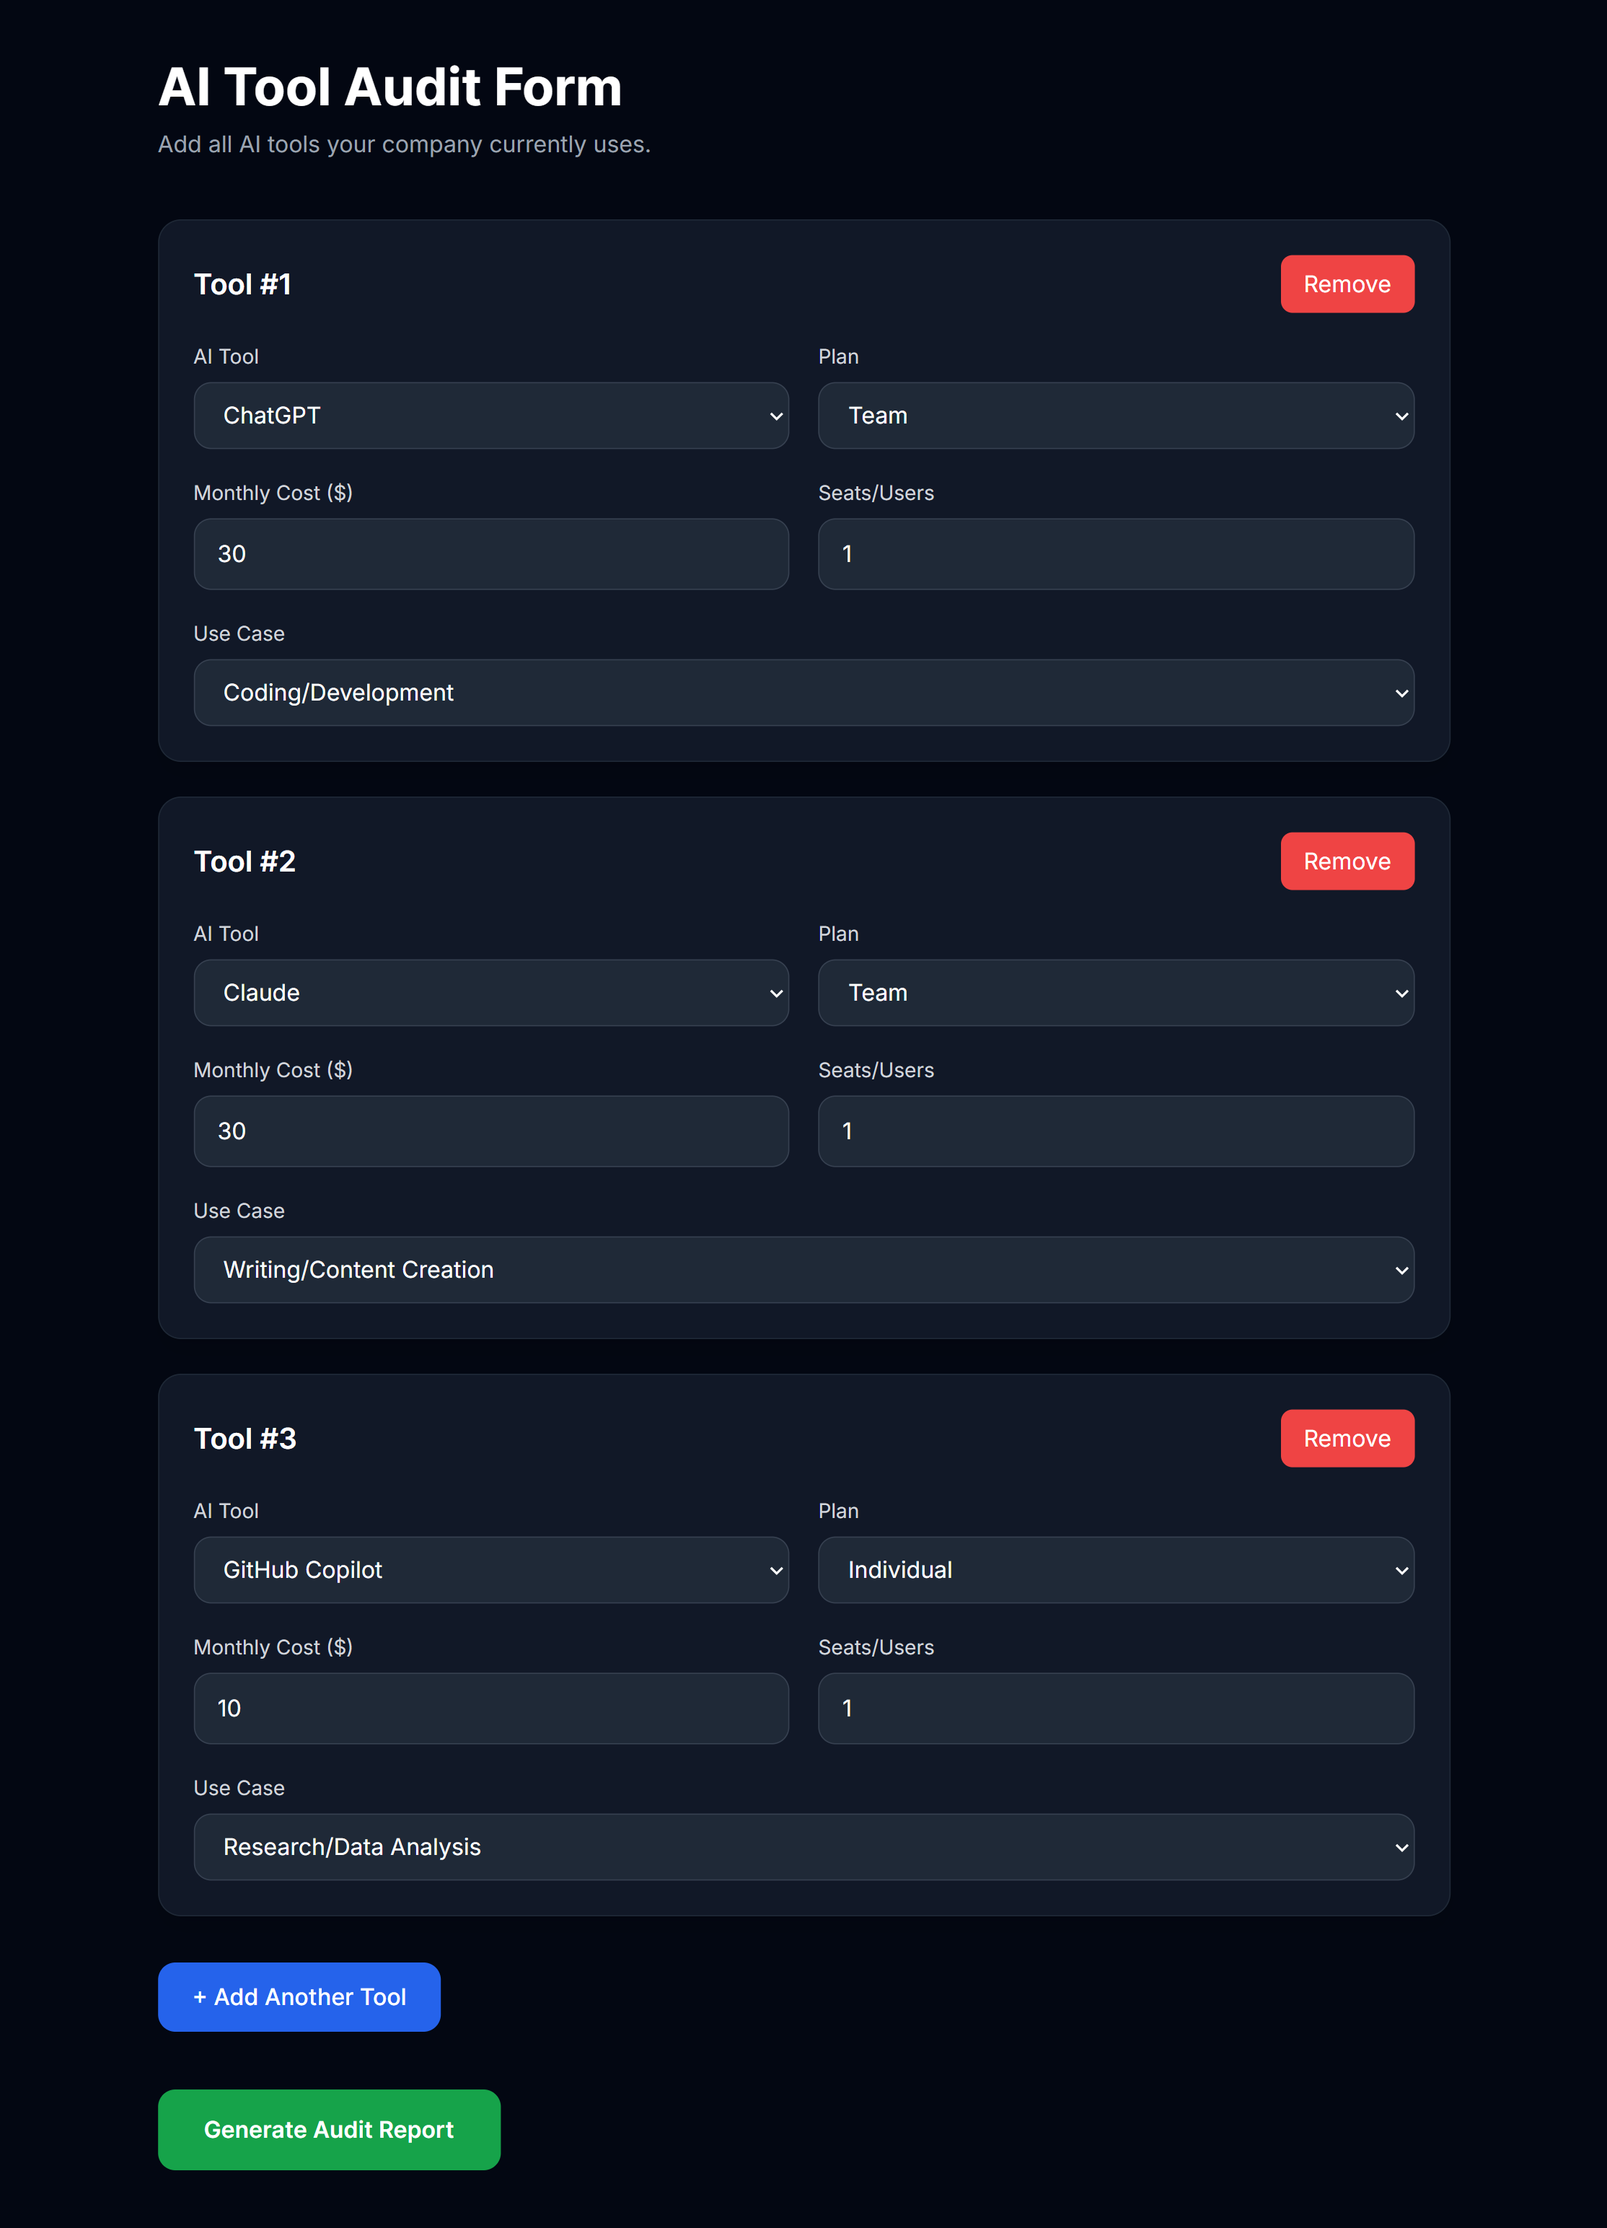
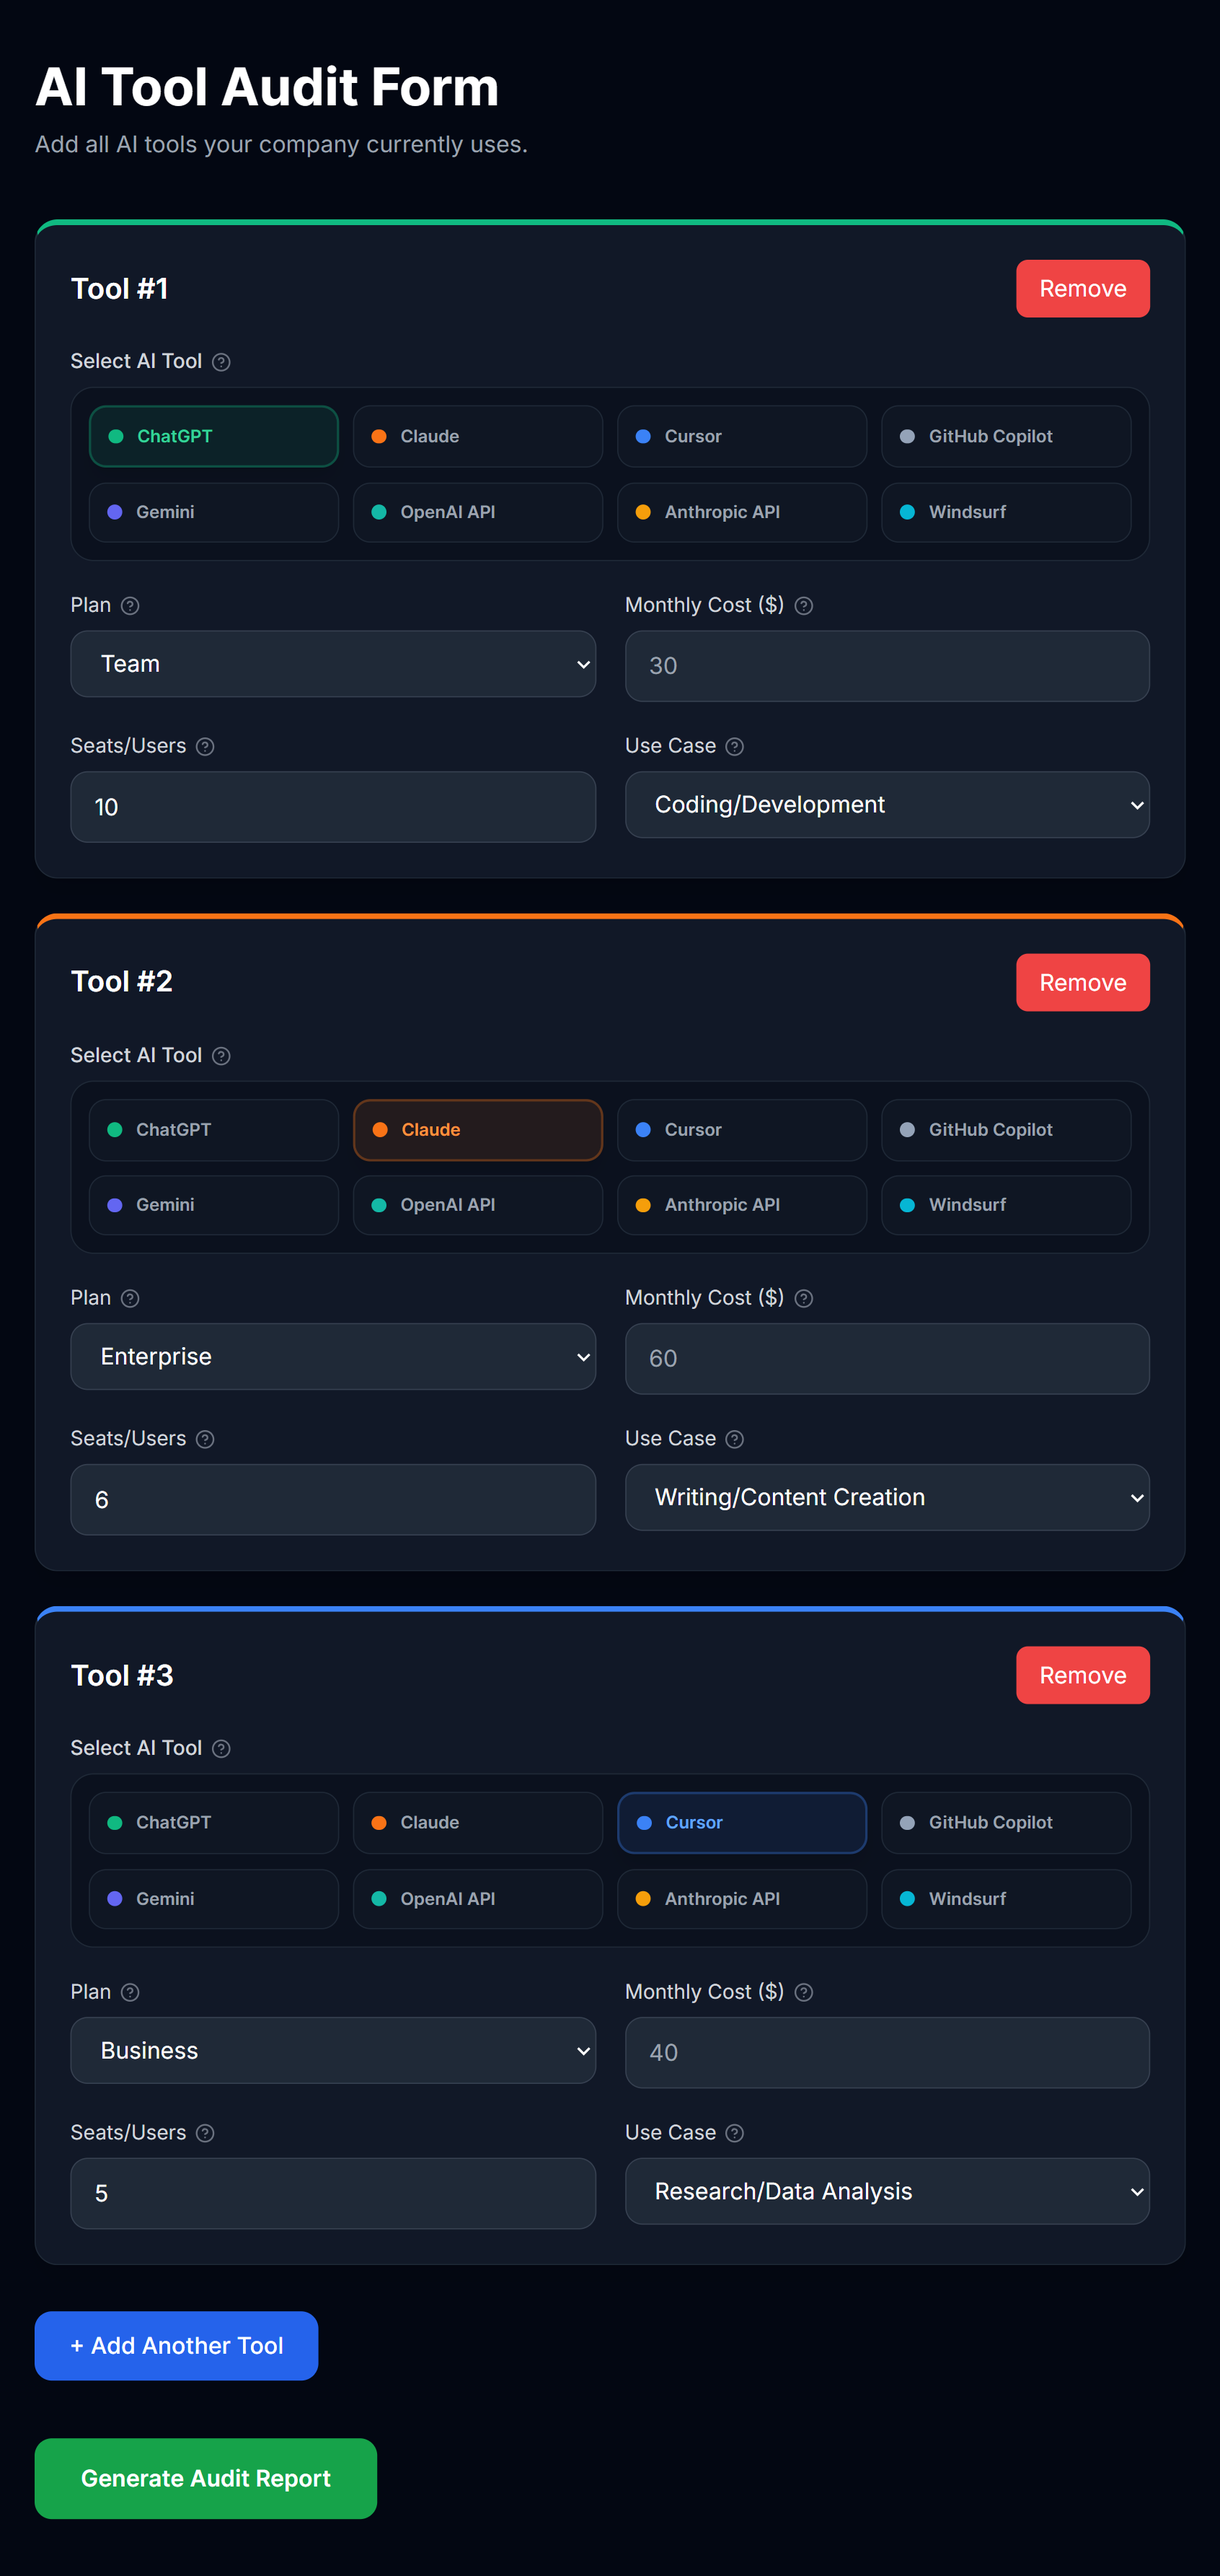
fix: resolve negative chart values by calculating total monthly cost and clean up Recharts outlines and alignment for responsive viewports

diff --git a/server/utils/geminiAuditor.js b/server/utils/geminiAuditor.js
@@ -3,24 +3,29 @@ import { GoogleGenerativeAI } from "@google/generative-ai";
 export const generateFallbackAudit = (tools) => {
   let totalMonthlySavings = 0;
 
-  const auditedTools = tools.map((tool) => {
+  const auditedTools = tools.map((t) => {
+    const seats = Number(t.seats) || 1;
+    // Scale monthlyCost to represent the total monthly spend: unit cost * seats
+    const totalCost = Number(t.monthlyCost) * seats;
+    const tool = { ...t, monthlyCost: totalCost };
+
     let recommendation = "Current plan looks optimized.";
     let savings = 0;
     let optimizedPlan = tool.plan;
     let reasoning = "Your current setup appears cost-efficient.";
 
     // Rule 1: Small teams using Team plans
-    if (tool.plan === "Team" && Number(tool.seats) <= 2) {
+    if (tool.plan === "Team" && seats <= 2) {
       optimizedPlan = "Plus";
-      savings = 10 * Number(tool.seats);
+      savings = 10 * seats;
       recommendation = "Downgrade to Plus plan";
       reasoning = "Small teams of 2 or fewer seats typically do not require collaboration-focused Team plans.";
     }
 
     // Rule 2: Enterprise overkill
-    if (tool.plan === "Enterprise" && Number(tool.seats) < 10) {
+    if (tool.plan === "Enterprise" && seats < 10) {
       optimizedPlan = "Business";
-      savings = 20 * Number(tool.seats);
+      savings = 20 * seats;
       recommendation = "Business plan may be more cost-efficient";
       reasoning = "Enterprise pricing tiers are usually better suited for larger organizations.";
     }
@@ -53,13 +58,19 @@ export const generateFallbackAudit = (tools) => {
   };
 };
 
-export const auditWithGemini = async (tools) => {
+export const auditWithGemini = async (rawTools) => {
   const apiKey = process.env.GEMINI_API_KEY;
 
   if (!apiKey) {
     console.warn("GEMINI_API_KEY is not defined. Falling back to rule-based heuristics.");
-    return generateFallbackAudit(tools);
+    return generateFallbackAudit(rawTools);
   }
+
+  // Pre-calculate total monthly cost on backend side for clean mapping
+  const tools = rawTools.map((t) => ({
+    ...t,
+    monthlyCost: Number(t.monthlyCost) * (Number(t.seats) || 1)
+  }));
 
   try {
     const genAI = new GoogleGenerativeAI(apiKey);
@@ -81,7 +92,7 @@ export const auditWithGemini = async (tools) => {
       2. If a plan is already optimized, keep it as is, setting monthlySavings to 0, optimizedPlan to the current plan, recommendation to "Current plan looks optimized.", and reasoning to "Your current setup appears cost-efficient."
       3. For each tool object, compute:
          - optimizedPlan: The recommended plan string.
-         - monthlySavings: Monthly cost savings in USD.
+         - monthlySavings: Total monthly cost savings in USD (savings per seat * seats).
          - annualSavings: monthlySavings * 12.
          - recommendation: Direct recommendation description.
          - reasoning: Explanatory rationale.

diff --git a/client/src/pages/Results.jsx b/client/src/pages/Results.jsx
@@ -364,6 +364,16 @@ const Results = () => {
             margin: 0 auto !important;
           }
         }
+        /* Screen display overrides to prevent default browser outlines on SVGs and Recharts wrappers */
+        svg, 
+        .recharts-wrapper, 
+        .recharts-surface, 
+        .recharts-legend-wrapper, 
+        .recharts-default-legend {
+          outline: none !important;
+          border: none !important;
+          box-shadow: none !important;
+        }
       `}} />
       
       
@@ -547,7 +557,7 @@ const Results = () => {
         )}
         
         {/* CHARTS CONTAINER GRID */}
-        <div className="grid md:grid-cols-2 gap-8 mb-12 print-charts-grid">
+        <div className="grid lg:grid-cols-2 gap-8 mb-12 print-charts-grid">
           {/* Spend Comparison Bar Chart */}
           <div className="bg-gray-900 border border-gray-800 rounded-3xl p-6 print-card-break">
             <div className="mb-6">
@@ -599,7 +609,7 @@ const Results = () => {
                   <Pie
                     data={donutData}
                     cx="50%"
-                    cy="50%"
+                    cy="45%"
                     innerRadius={60}
                     outerRadius={80}
                     paddingAngle={4}
@@ -610,7 +620,7 @@ const Results = () => {
                     ))}
                   </Pie>
                   <Tooltip content={<CustomDonutTooltip />} />
-                  <Legend wrapperStyle={{ fontSize: 11 }} />
+                  <Legend verticalAlign="bottom" height={36} wrapperStyle={{ fontSize: 11 }} />
                 </PieChart>
               </ResponsiveContainer>
             </div>
